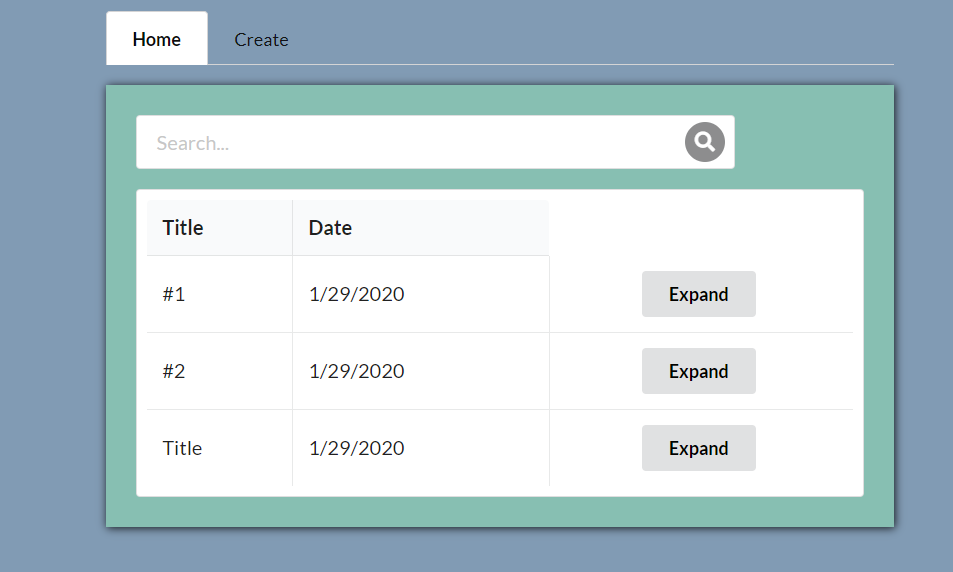
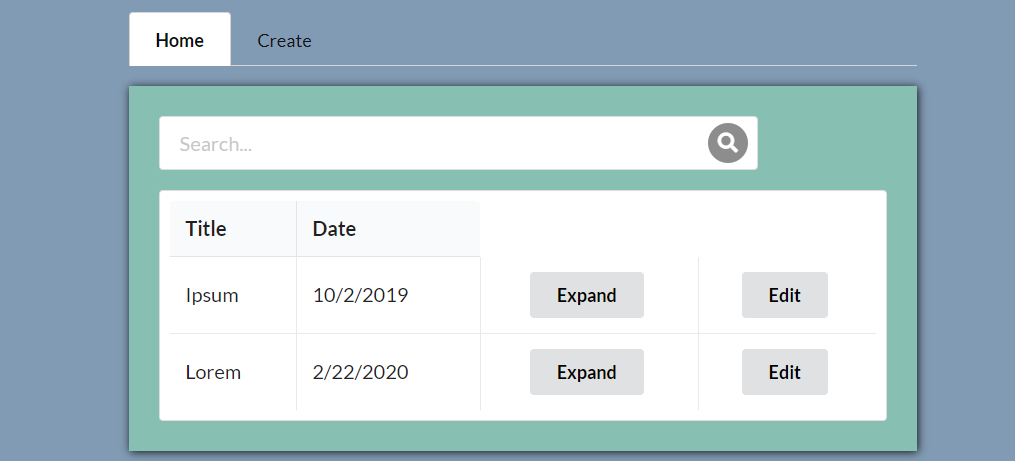
1.1

diff --git a/src/components/EditForm.js b/src/components/EditForm.js
@@ -1,16 +1,17 @@
 import React, { useState } from 'react';
 import { connect } from 'react-redux'
 import DatePicker from 'react-datepicker'
-import { newDream } from '../reducers/dreamReducer'
+import { newDream, updateDream } from '../reducers/dreamReducer'
 import { Button, Form, TextArea } from 'semantic-ui-react'
 import "react-datepicker/dist/react-datepicker.css";
 import './Home.css'
 
 const DreamForm = (props) => {
 
-    const [title, setTitle] = useState('')
-    const [description, setDescription] = useState('')
+    const [title, setTitle] = useState(props.dream.title)
+    const [description, setDescription] = useState(props.dream.description)
     const [date, setDate] = useState(new Date())
+
 
     const handleTitleChange = (event) => {
         setTitle(event.target.value)
@@ -22,16 +23,14 @@ const DreamForm = (props) => {
         setDate(date)
     }
 
-    const add = async (event) => {
+    const update = async (event) => {
         event.preventDefault()
-        const data = { description: description, title: title, date: date.toLocaleDateString() }
-        props.newDream(data)
-        setDescription('')
-        setTitle('')
+        const dream = { id: props.dream.id, description: description, title: title, date: date.toLocaleDateString() }
+        props.updateDream(dream)
     }
     return (
         <div className='one-item'>
-            <Form onSubmit={add}>
+            <Form onSubmit={update}>
                 <Form.Field>
                     <input type='text' value={title} onChange={handleTitleChange} required placeholder='Dream title' />
                 </Form.Field>
@@ -47,5 +46,10 @@ const DreamForm = (props) => {
     )
 
 }
-const ConnectedForm = connect(null, { newDream })(DreamForm)
+
+const mapDispatchToProps = {
+    newDream,
+    updateDream
+}
+const ConnectedForm = connect(null, mapDispatchToProps)(DreamForm)
 export default ConnectedForm

diff --git a/src/components/DreamList.js b/src/components/DreamList.js
@@ -7,7 +7,6 @@ import './Home.css'
 const DreamList = (props) => {
 
     return (
-
         <div className='data-table'>
             <Filter />
             <Container>
@@ -29,6 +28,9 @@ const DreamList = (props) => {
                                 </Table.Cell>
                                 <Table.Cell textAlign='center'>
                                     <Button as={Link} to={`/dreams/${dream.id}`}  >Expand</Button>
+                                </Table.Cell>
+                                <Table.Cell textAlign='center'>
+                                    <Button as={Link} to={`/dreams/edit/${dream.id}`}  >Edit</Button>
                                 </Table.Cell>
                             </Table.Row>
                         )}

diff --git a/src/App.js b/src/App.js
@@ -6,6 +6,7 @@ import { initDreams } from './reducers/dreamReducer'
 import DreamList from './components/DreamList'
 import Dream from './components/Dream'
 import Form from './components/Form'
+import EditForm from './components/EditForm'
 import './components/Home.css'
 
 const App = (props) => {
@@ -40,6 +41,7 @@ const App = (props) => {
         </Menu>
         <Route exact path='/' render={() => <DreamList />} />
         <Route exact path='/dreams/:id' render={({ match }) => <Dream dream={dreamById(match.params.id)} />} />
+        <Route exact path='/dreams/edit/:id' render={({ match }) => <EditForm dream={dreamById(match.params.id)} />} />
         <Route path='/create' render={() => <Form />} />
       </Router>
     </Container >

diff --git a/src/reducers/dreamReducer.js b/src/reducers/dreamReducer.js
@@ -29,12 +29,21 @@ export const deleteDream = (data) => {
         })
     }
 }
-
+export const updateDream = (dream) => {
+    return async dispatch => {
+        const toEdit = await dreamService.update(dream)
+        dispatch({
+            type: 'EDIT',
+            data: dream
+        })
+    }
+}
 const dreamsReducer = (state = [], action) => {
     console.log(action.type)
     switch (action.type) {
         case 'INIT': return action.data
         case 'NEW_DREAM': return [...state, action.data]
+        case 'EDIT': return state.map(dream => dream.id !== action.data.id ? dream : action.data)
         case 'DELETE': return state.filter(x => x.id !== action.data)
         default: return state
     }

diff --git a/src/components/Dream.js b/src/components/Dream.js
@@ -18,6 +18,7 @@ const Dream = (props) => {
                     <p>{props.dream.description}</p>
                     <Divider />
                     <Link to='/'><Button onClick={removeDream} >Delete dream</Button></Link>
+                    <Button as={Link} to={`/dreams/edit/${props.dream.id}`}  >Edit</Button>
                 </Container>
             </div>
         </div>

diff --git a/src/services/dreams.js b/src/services/dreams.js
@@ -13,4 +13,8 @@ const remove = async dream => {
     const response = await axios.delete(`${baseUrl}/${dream.id}`)
     return response.data
 }
-export default { getAll, create, remove}
+const update = async (dream) => {
+    const response = await axios.put(`${baseUrl}/${dream.id}`,dream)
+    return response.data
+}
+export default { getAll, create, remove, update }
